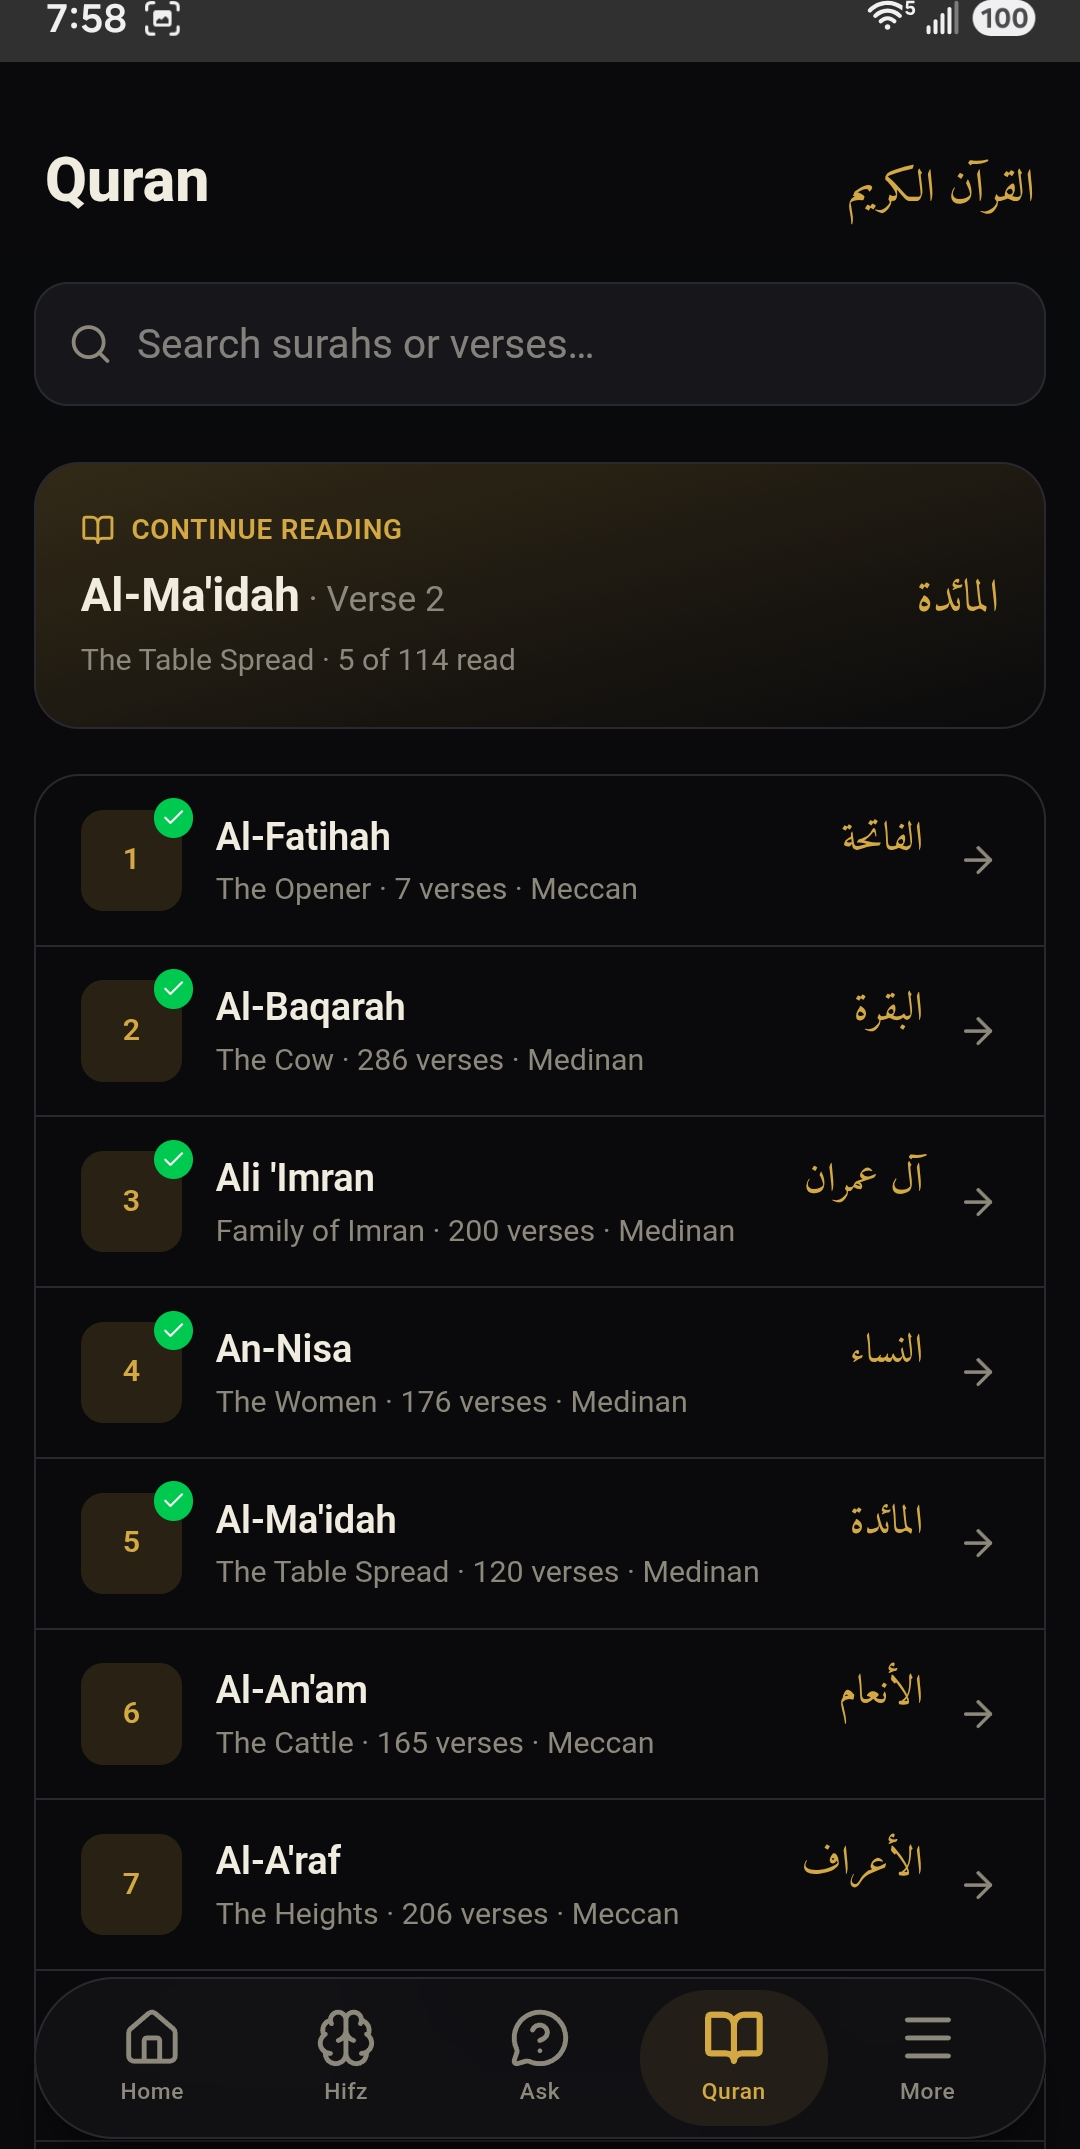
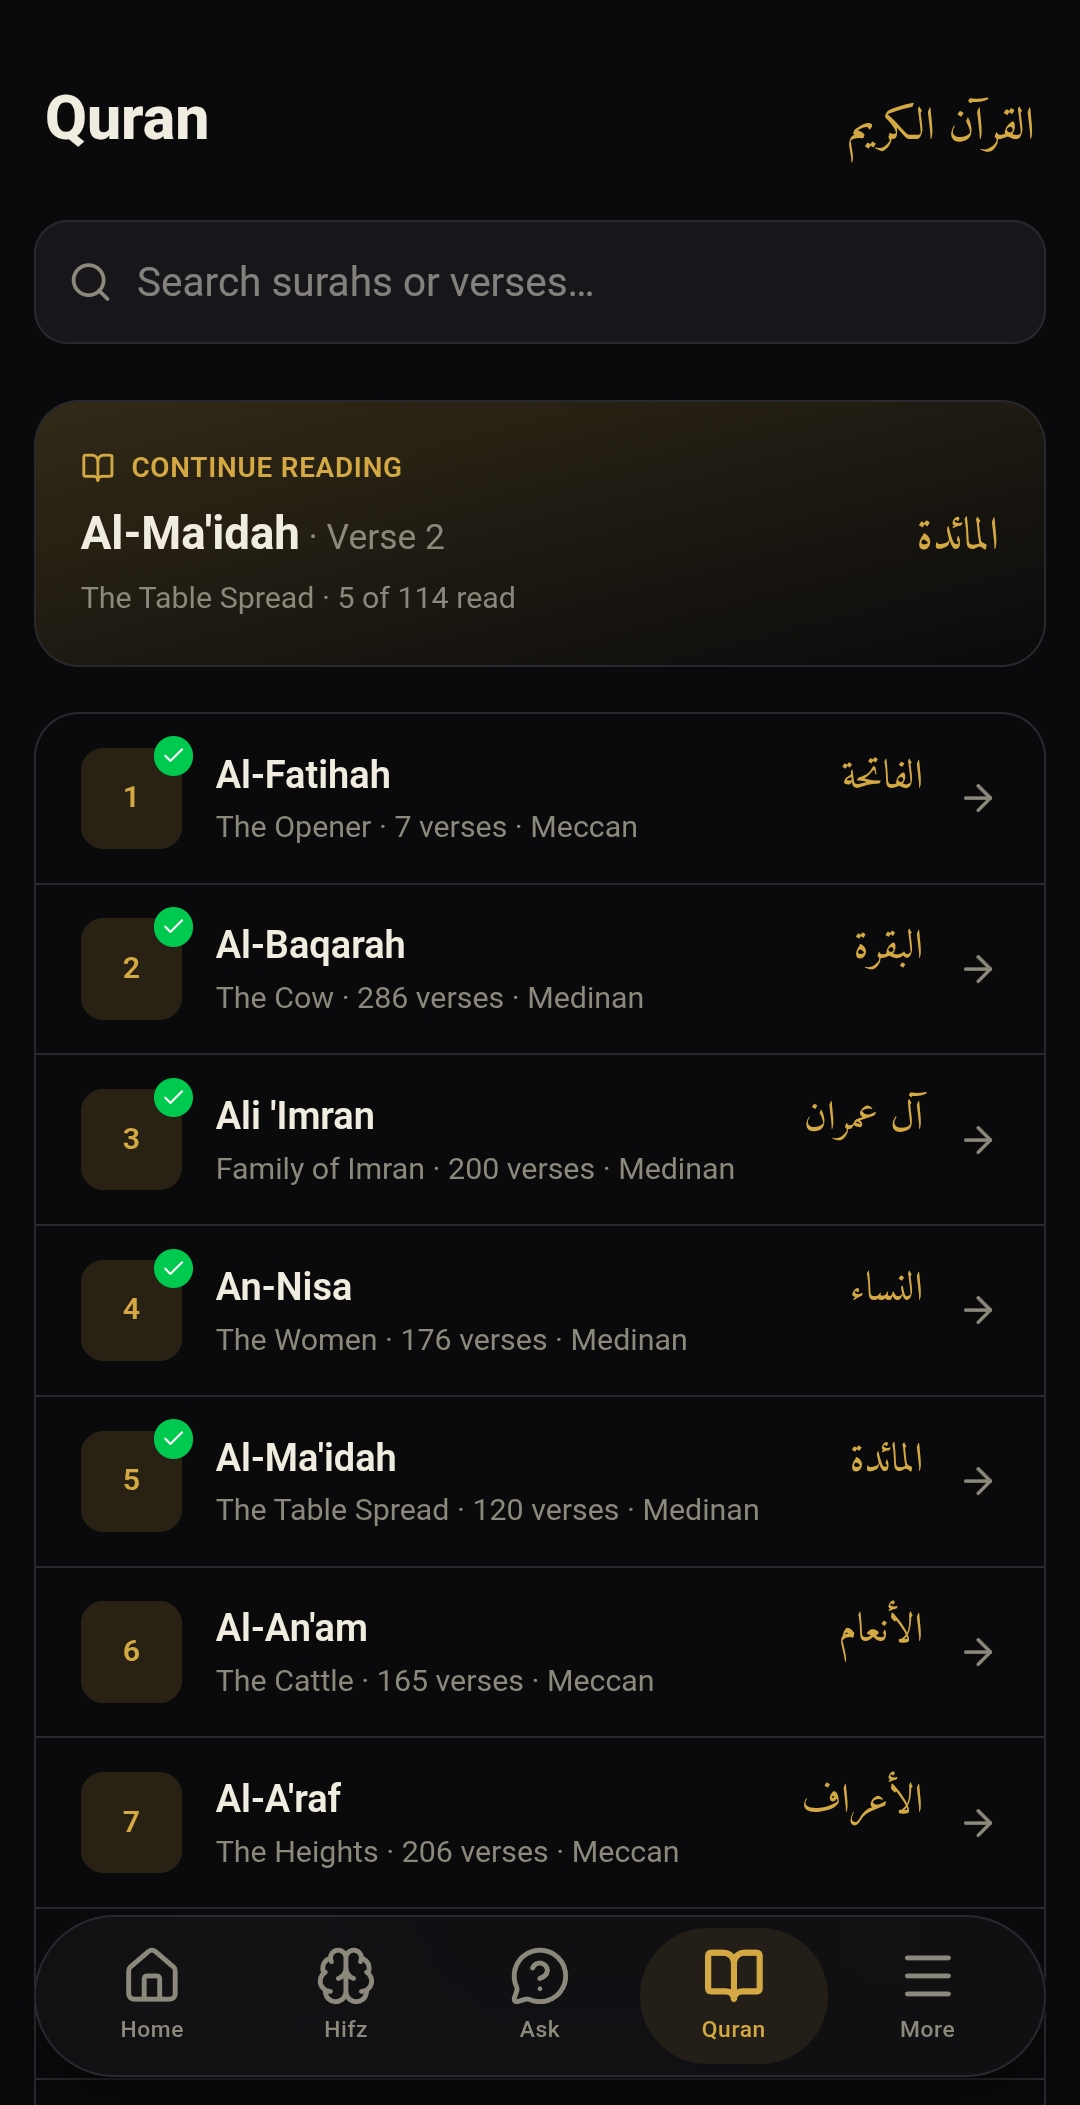
Play: take the system bars off the screenshots properly
The first pass left the status bar in. Detection cannot find either
system bar, and for the same reason in both cases: the clock and the
wifi/battery icons make those rows non-uniform, as do the three
navigation buttons, so a walk inwards from the edge stops immediately
and returns almost nothing. The bars were only ever being trimmed by
whatever the aspect-ratio maths happened to need — which is why the
status bar survived and the nav bar was cut to an arbitrary 91px.

The device knows the real numbers, so ask it rather than eyeball them:

  statusBars     frame=[0,0][1080,100]        => 100
  navigationBars frame=[0,2205][1080,2340]    => 135

Passed as --top/--bottom rather than baked in as constants, because both
are specific to this handset, this One UI version and three-button
navigation; hardcoding them would silently mangle a capture from any
other phone, and nobody would notice until the listing looked wrong.

1080x2340 -> 1080x2105, ratio 1.949. Comfortably inside Play's limit,
with no system chrome at either edge — the tab bar still visible at the
bottom is the app's own, which belongs in the picture.

diff --git a/apps/web/scripts/crop-play-screenshots.py b/apps/web/scripts/crop-play-screenshots.py
@@ -19,10 +19,31 @@ gesture navigation instead of three-button — and a silently wrong crop is wors
 than a loud failure, because you would not notice until the listing looked odd.
 
 Usage:
-    python3 scripts/crop-play-screenshots.py <input-dir> [output-dir]
+    python3 scripts/crop-play-screenshots.py <input-dir> [output-dir] [--top N]
 
 Defaults the output to android/play-screenshots/ so the results land beside the
 icon and feature graphic, versioned rather than living in a downloads folder.
+
+--top overrides the top crop, and exists because detection alone CANNOT remove
+the status bar: the clock and the wifi/battery icons make those rows non-uniform,
+so the walk stops at the first of them and leaves the bar in the picture. The
+authoritative height comes from the device itself —
+
+    adb shell dumpsys window | grep -oE 'statusBars frame=\\[[0-9,]+\\]\\[[0-9,]+\\]'
+    -> statusBars frame=[0,0][1080,100]   (Galaxy A17, 450dpi)
+
+so pass --top 100 for that device. --bottom is the same story for the navigation
+bar, which detection also cannot find: the three buttons make the last row
+non-uniform, so the walk returns 0 and the bar is only ever trimmed by whatever
+the ratio maths happens to need.
+
+    adb shell dumpsys window | grep -oE 'navigationBars frame=\[[0-9,]+\]\[[0-9,]+\]'
+    -> navigationBars frame=[0,2205][1080,2340]   => 2340-2205 = 135
+
+    python3 scripts/crop-play-screenshots.py <dir> --top 100 --bottom 135
+
+Guessing either number would silently mangle captures from any other phone,
+which is why they are arguments and not constants.
 """
 
 import sys
@@ -63,12 +84,22 @@ def find_bar(img, from_top: bool, limit: int):
 
 
 def main():
-    if len(sys.argv) < 2:
+    args = [a for a in sys.argv[1:] if not a.startswith("--")]
+    top_override = bottom_override = None
+    for i, a in enumerate(sys.argv):
+        if a in ("--top", "--bottom") and i + 1 < len(sys.argv):
+            val = int(sys.argv[i + 1])
+            if a == "--top":
+                top_override = val
+            else:
+                bottom_override = val
+            args = [x for x in args if x != sys.argv[i + 1]]
+    if not args:
         print(__doc__.strip())
         return 2
-    src = pathlib.Path(sys.argv[1]).expanduser()
+    src = pathlib.Path(args[0]).expanduser()
     here = pathlib.Path(__file__).resolve().parent
-    dst = pathlib.Path(sys.argv[2]).expanduser() if len(sys.argv) > 2 else (
+    dst = pathlib.Path(args[1]).expanduser() if len(args) > 1 else (
         here.parent / "android" / "play-screenshots"
     )
     if not src.is_dir():
@@ -91,8 +122,8 @@ def main():
         w, h = img.size
         # Cap each search at 12% of the height — far more than any real system
         # bar, far less than enough to swallow content.
-        top = find_bar(img, True, int(h * 0.12))
-        bot = find_bar(img, False, int(h * 0.12))
+        top = top_override if top_override is not None else find_bar(img, True, int(h * 0.12))
+        bot = bottom_override if bottom_override is not None else find_bar(img, False, int(h * 0.12))
 
         # If detection alone does not get us under the ratio, take the remainder
         # off the BOTTOM: the top of a screenshot carries the screen title and
